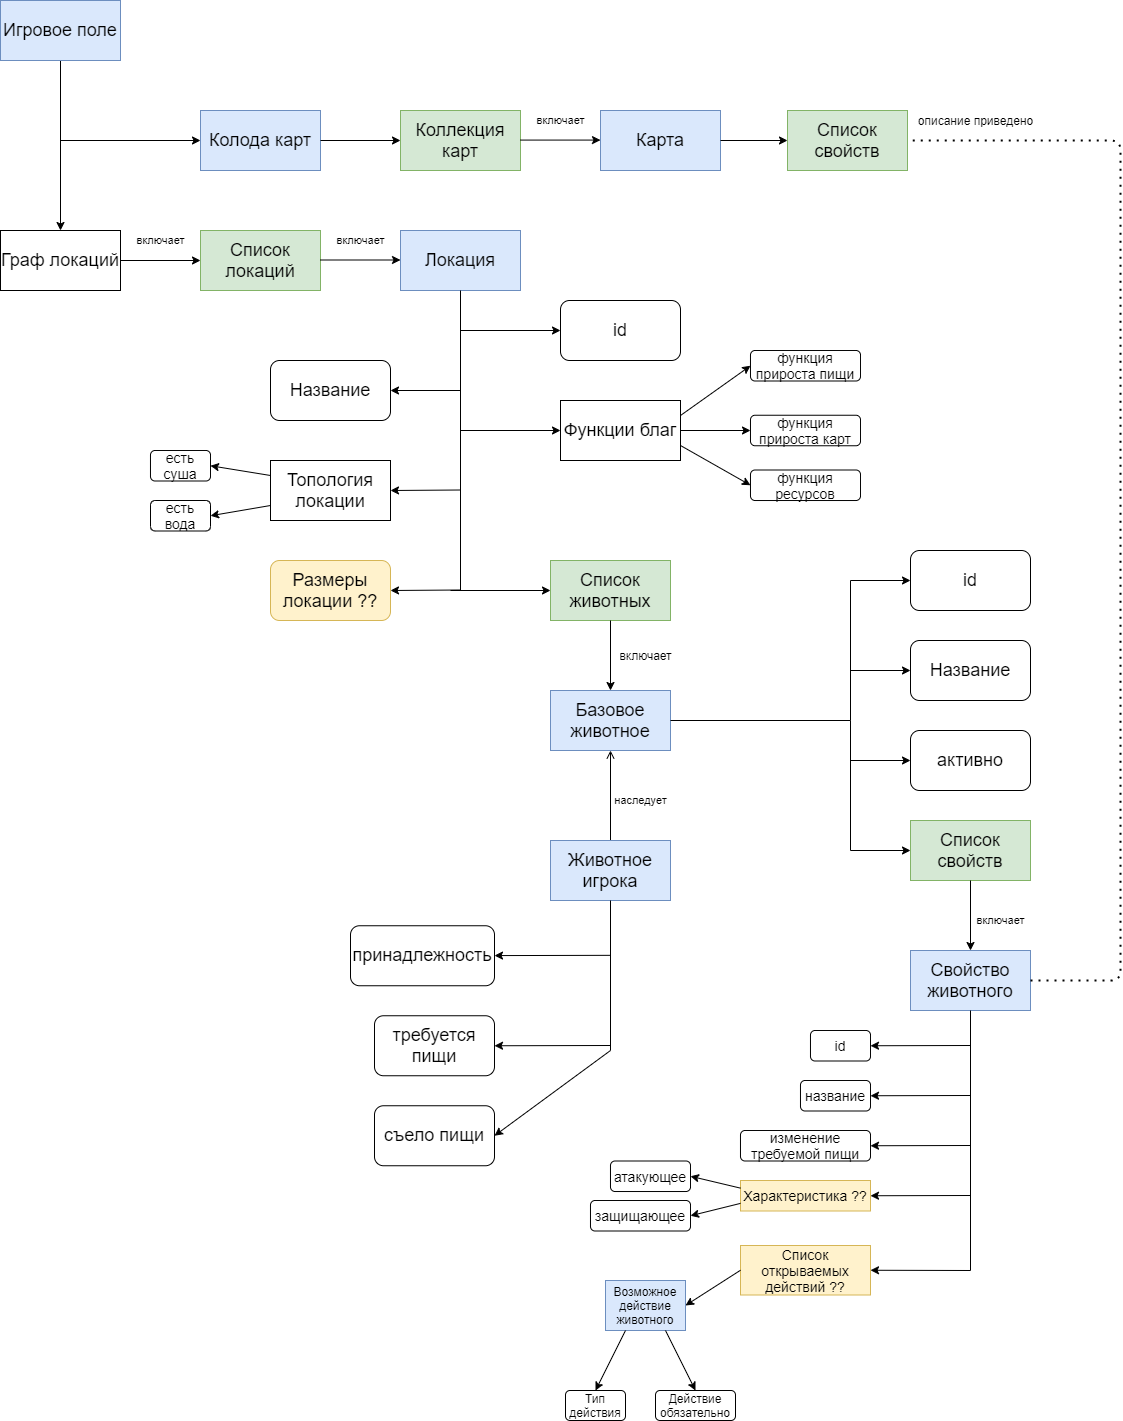
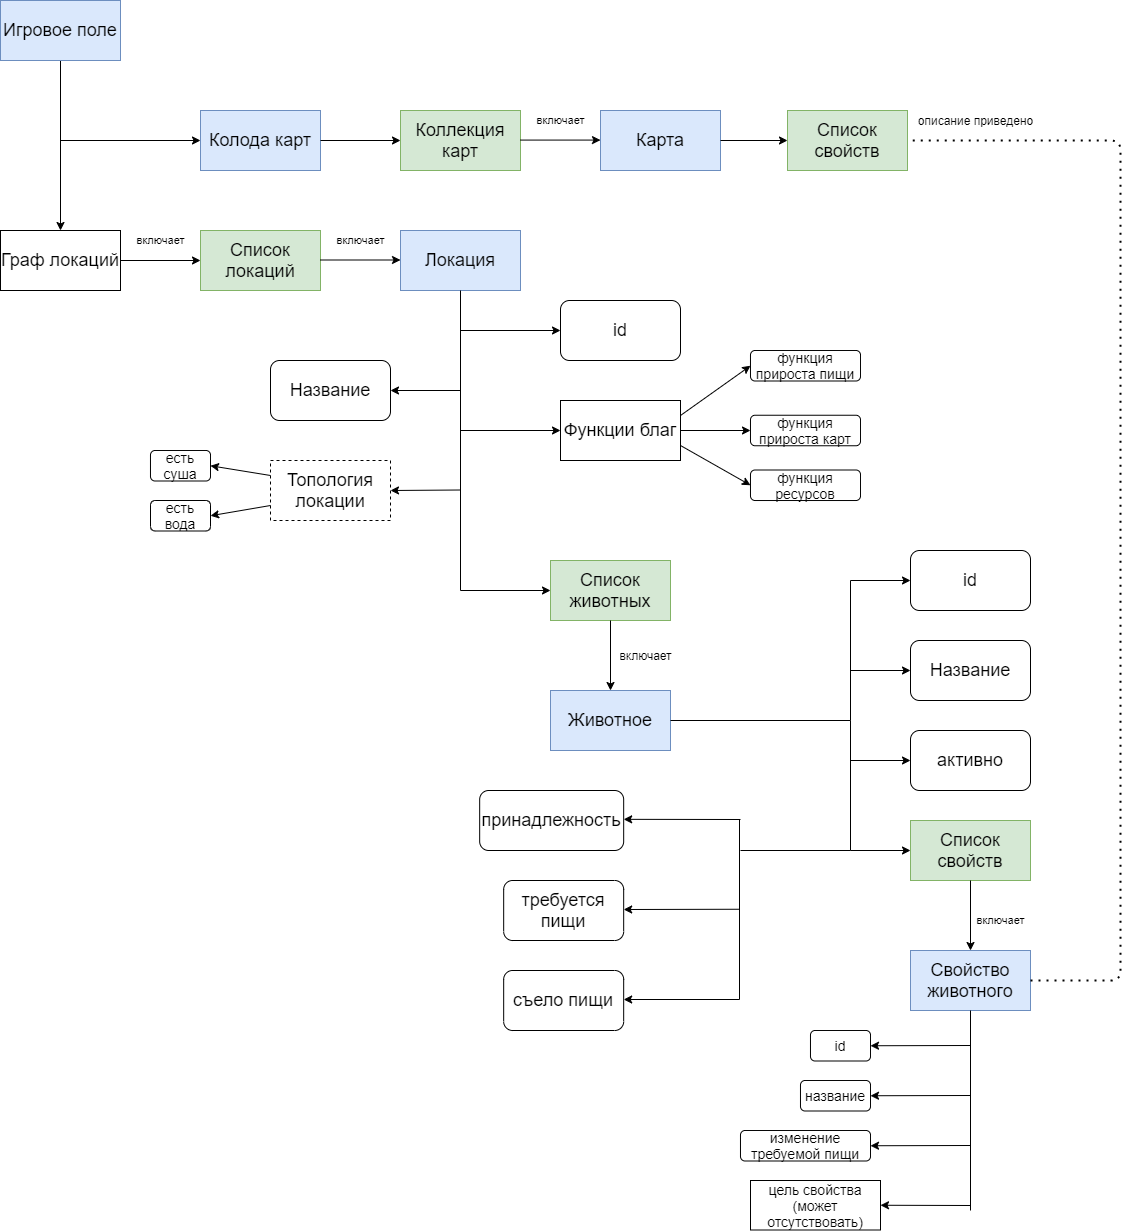
some updates

diff --git a/Core/src/main/kotlin/ru/honfate/upgrowth/core/api/field/DataClasses.kt b/Core/src/main/kotlin/ru/honfate/upgrowth/core/api/field/DataClasses.kt
@@ -24,7 +24,6 @@ data class Animal(
     var name: String,
     val isActive: Boolean,
     val properties: MutableCollection<Property>,
-    var location: Location,
     val owner: Player?,
     val foodNeeded: Int, // Количество еды, необходимое для выживания
     var foodGot: Int     // Количество еды, которое животное получило

diff --git a/Core/src/main/kotlin/ru/honfate/upgrowth/core/api/field/CoreFieldInterface.kt b/Core/src/main/kotlin/ru/honfate/upgrowth/core/api/field/CoreFieldInterface.kt
@@ -20,6 +20,7 @@ interface CoreFieldInterface {
     fun addAnimal(location: Location, player: Player): Animal
     fun deleteAnimal(animal: Animal)
     fun moveAnimal(animal: Animal, destination: Location)
+    fun getLocation(animal: Animal): Location
 
     fun addProperty(property: Property, animal: Animal)
     fun deleteProperty(property: Property, animal: Animal)

diff --git a/docs/index.md b/docs/index.md
@@ -24,6 +24,7 @@
 | addAnimal(location: Location, player: Player): Animal | создать в локации новое животное игрока и вернуть его |
 | deleteAnimal(animal: Animal) | удалить животное с поля |
 | moveAnimal(animal: Animal, destination: Location) | переместить животное в новую локацию |
+| getLocation(animal: Animal): Location | найти локацию, в которой находится животное |
 | addProperty(property: Property, animal: Animal) | добавить животному свойство |
 | deleteProperty(property: Property, animal: Animal) | удалить свойство у животного |
 | generateFood(location: Location) | сгенерировать еду в этой локации |
